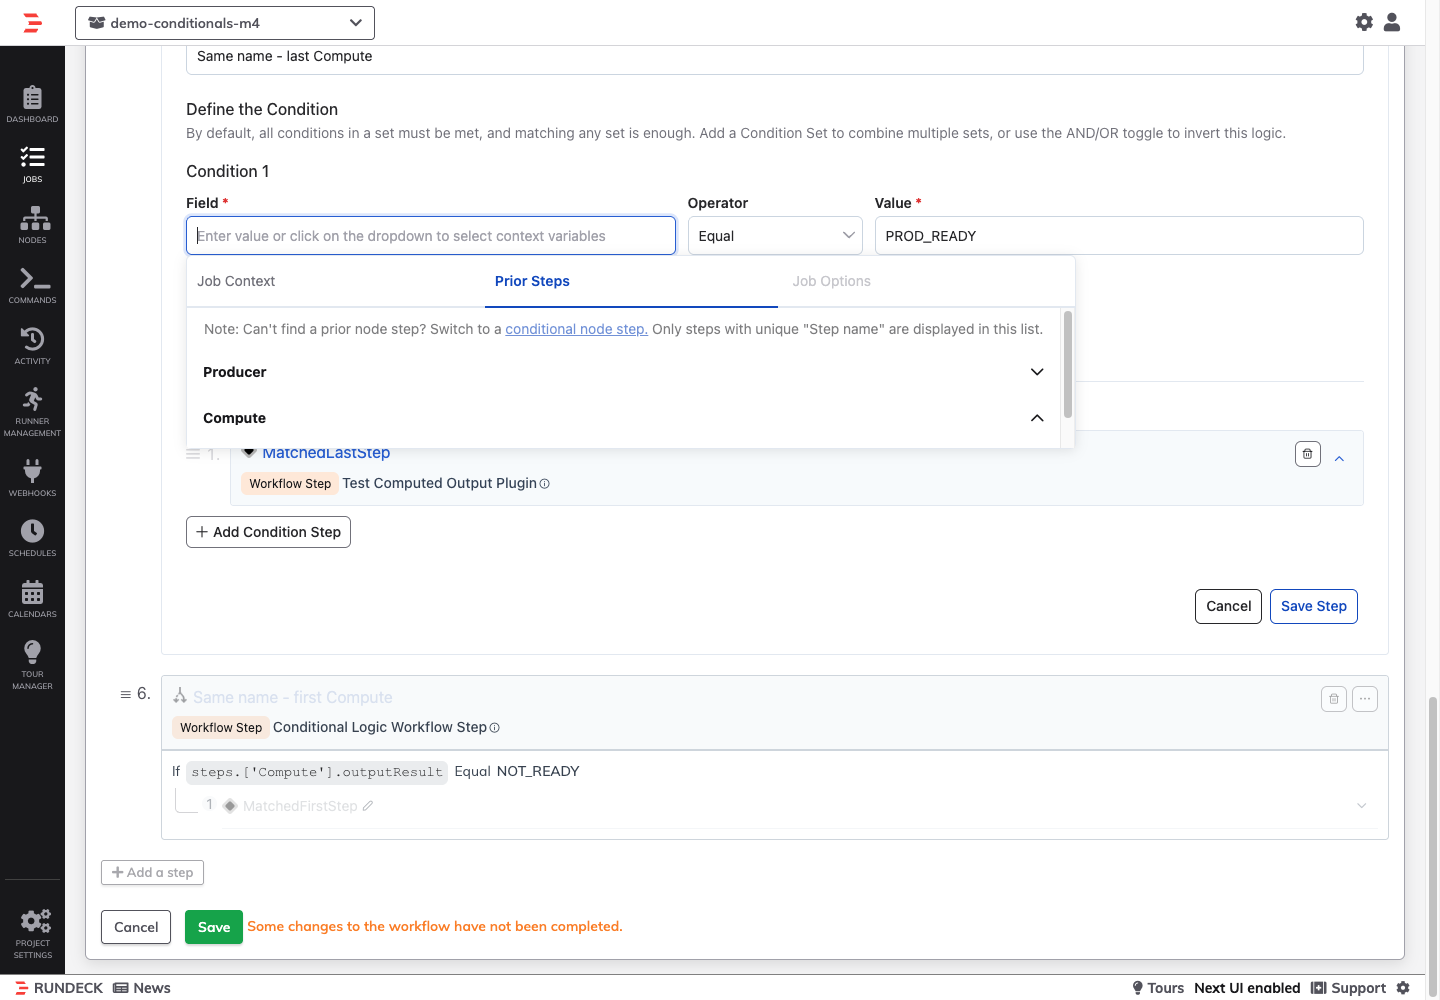
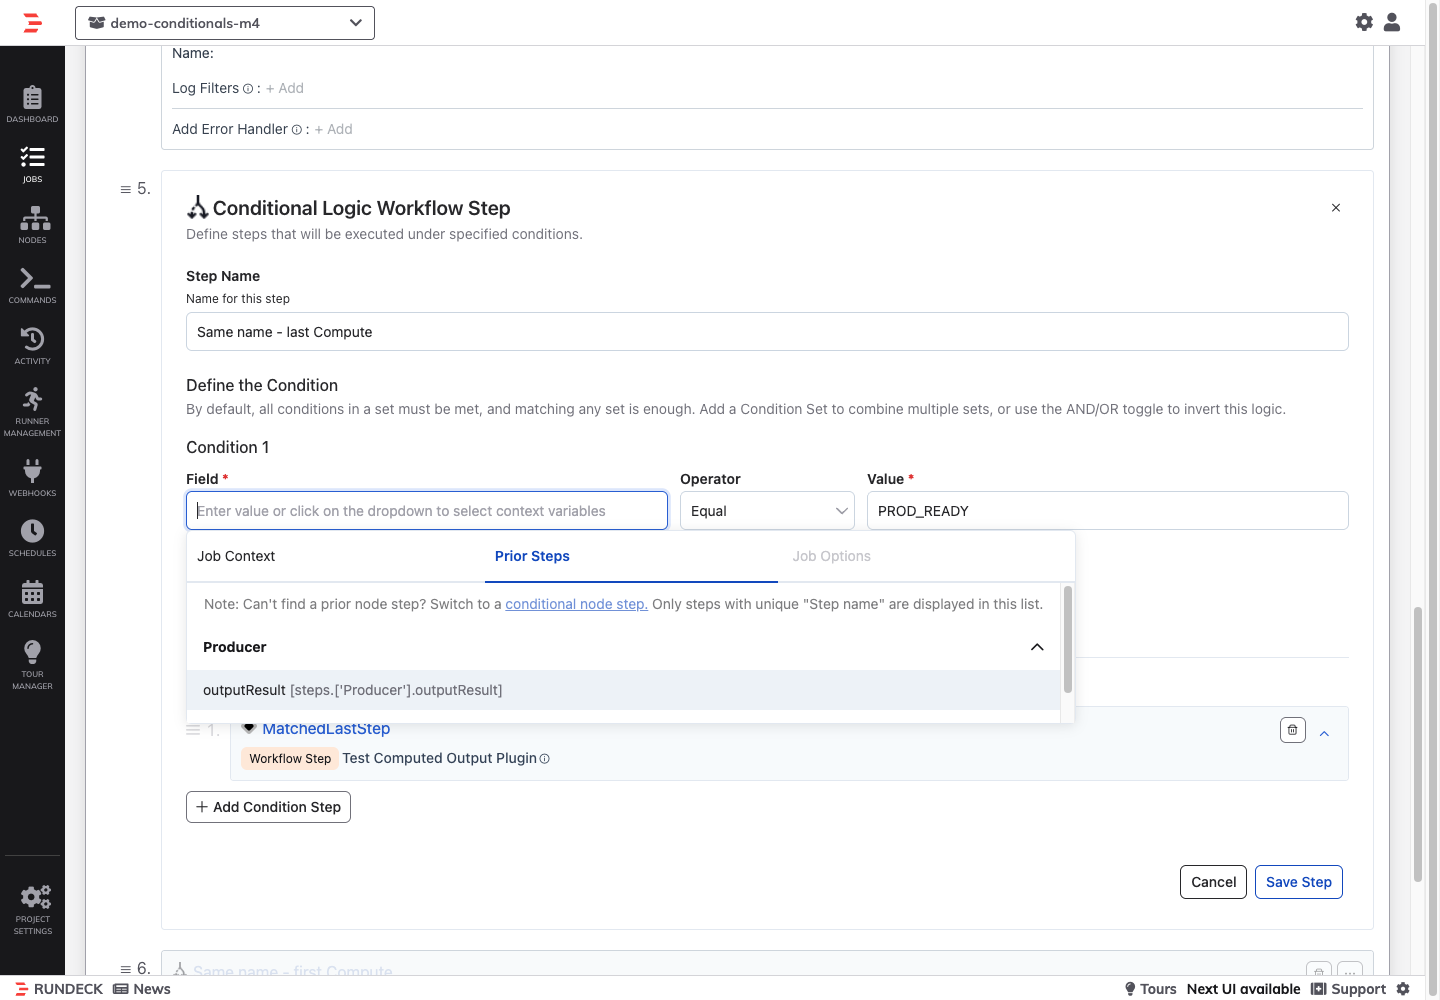
Add Conditional Logic workflow screenshots

diff --git a/docs/manual/jobs/conditional-logic.md b/docs/manual/jobs/conditional-logic.md
@@ -174,7 +174,7 @@ By default, a Conditional Logic step evaluates **AND within each condition set, 
 The AND/OR toggle for condition sets is available starting in Rundeck 6.2.0.
 :::
 
-![Conditional Logic editor showing the AND/OR toggle between condition sets](/assets/img/job-conditionals-toggle.png)
+![Conditional Logic editor with the condition-set logic dropdown showing AND and OR options](/assets/img/job-conditionals-and-or-selector.png)
 
 The toggle applies to the whole step, not just the boundary where it appears — it flips both the within-set and across-set operators together.
 
@@ -390,6 +390,8 @@ Use **Undo** above the workflow to revert the last change, or **Revert All Chang
 
 Open the three-dot actions menu (**⋯**) on the conditional step card and select **Duplicate this step**. The duplicate appears immediately after the original step.
 
+![Conditional step actions menu showing the Duplicate this step option](/assets/img/job-conditionals-actions-menu.png)
+
 ### Deleting Steps
 
 Click **"Delete"** on a conditional step card to remove it from the workflow. Use **"Undo"** to restore a deleted step.
@@ -472,6 +474,8 @@ You can place a Conditional Logic step one level inside another Conditional Logi
 3. Configure the nested conditional's conditions and its own substeps
 4. When the parent condition is met, the nested conditional evaluates independently
 
+![Expanded parent conditional showing nested conditional steps and their substeps](/assets/img/job-conditionals-nested-workflow.png)
+
 **Example: Environment gate, then OS-specific commands**
 
 1. Node Conditional Logic: `${option.environment}` equals `production`
@@ -552,6 +556,8 @@ This allows the job to have a broader node filter but selectively execute steps.
 - At least one condition must be defined
 - Check for syntax errors in regex patterns (for `matches` operator)
 - **Important**: Context variable fields must use `${}` syntax - verify syntax like `${option.name}` not `$option.name`
+
+![Parent conditional warning and Invalid Condition Criteria badge for a nested conditional with a broken prior-step reference](/assets/img/job-conditionals-nested-invalid-reference.png)
 
 ### Import/Export Issues
 
